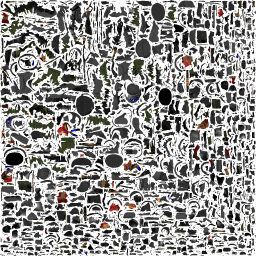
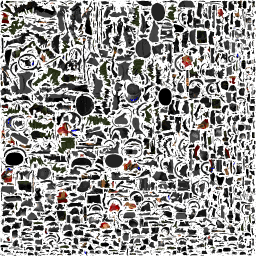
fix: SPOS back no longer shifts color through the walk cycle
Fronts of the A-G set are one consistent hint projection, but each
frame's back was its own raw TRELLIS bake, and bakes drift: the back's
screen luminance pulsed 31-57 across frames (C near-black beside D).
Raw bakes live on the other machine, so no re-projection here.

A full back repaint from frame A's rear shell (new
Tools/repaint_back_from_anchor.py: mesh-space KNN-median lookup with
per-frame auto-yaw - poses carry real torso turns, B walks at ~-42deg,
F is baked toward the target) won its 180-degree panel but FAILED the
in-game gate: angled views smeared half a back dark. The frontal panel
does not predict oblique game angles; the tool stays for its
frame_cloud rear-shell classifier (per-cell depth minimum, median
centering - a stride leg skews the bbox, absolute eps - the z-span
breathes with the pose).

Shipped fix is conservative: Tools/tone_match_back.py keeps every
frame's own back content (its bake is geometry-correct by construction)
and transfers only per-channel mean/std toward frame A, with statistics
measured in screen space over back renders (the barrel doctrine),
applied to non-front texels only, std gain capped at 1.6x, requantized
to the SPOSA1 palette. Backs now sit at 44-51 lum (walk cycle
48.6/48.8/46.6/48.5); content differences (B's scorch, C's darker
pants) remain and would need a re-roll on the bake machine.

Targeted suites: EditMode MonsterModelFrameTableTests 9/9, PlayMode
[…]

diff --git a/Tools/repaint_back_from_anchor.py b/Tools/repaint_back_from_anchor.py
@@ -1,0 +1,206 @@
+"""Repaint away-facing texels of monster frames from ONE anchor frame's back.
+
+project_hint_texture.py made the fronts of a stop-motion set consistent (one
+hint set), but --back-from-bake paints each frame's back from that frame's OWN
+raw TRELLIS bake — and bakes drift between generations, so the back pulses
+tone and content through the walk cycle (SPOS, reported 2026-08-30: grey vs
+rust vs near-black armor frame to frame). Statistics cannot fix that (the
+SPOS color saga verdict), so this applies the projection doctrine to the back:
+every away-facing texel of a target frame takes the color of the NEAREST
+away-facing surface point of the anchor mesh, matched in normalized mesh
+space (poses share the body core, so a thigh maps to the thigh, armor to
+armor). Screen-space row alignment was tried first and rejected: the anchor's
+own back render carries its hand/gun at torso rows, and row stretching smears
+them across every other pose. Raw bakes are not needed — meshes, UVs and the
+installed albedos carry everything, and colors come straight from the
+anchor's quantized albedo, so no re-quantization blur.
+
+Usage:
+  python Tools/repaint_back_from_anchor.py \
+      --dir Assets/Resources/ExperimentalMonsters/SPOS \
+      --anchor SPOSA1 --frames SPOSB1 SPOSC1 SPOSD1 SPOSE1 SPOSF1 SPOSG1 \
+      --palette-lump SPOSA1
+"""
+from __future__ import annotations
+
+import argparse
+import sys
+from pathlib import Path
+
+import numpy as np
+from PIL import Image
+from scipy.spatial import cKDTree
+
+sys.path.insert(0, str(Path(__file__).resolve().parent))
+import doomify3d  # noqa: E402
+from project_hint_texture import rasterize_positions  # noqa: E402
+from recolor_to_hint import strong_blue  # noqa: E402
+
+PROJ = 1024
+
+
+def frame_cloud(d: Path, lump: str, grid: int, eps: float):
+    """Rasterize a frame's atlas: per-1024-texel normalized position plus the
+    REAR-SHELL classification. The plain occluded-texel split from
+    project_hint_texture is wrong for this tool on both sides: the anchor's
+    occluded set carries FRONT surfaces (chest behind the gun, visor under
+    the brim) that poison the color cloud with black/blue at near-back
+    positions, and repainting a target's occluded-front texels would show
+    through from the front at parallax angles. The surface a viewer behind
+    the monster actually sees is the depth MINIMUM per (x, y) cell — front
+    is +Z (settled 2026-08-15) — so both the cloud and the repaint set are
+    texels within eps of their cell's minimum."""
+    verts, tris, cuv = doomify3d.load_obj(d / f"{lump}.obj")
+    v = verts.copy()
+    y_min, y_max = v[:, 1].min(), v[:, 1].max()
+    h = max(1e-9, y_max - y_min)
+    v /= h
+    v[:, 1] -= y_min / h
+    pos, _, filled = rasterize_positions(v, tris, cuv, PROJ)
+    pts = pos[filled]
+    # Center x/z on the surface MEDIAN, not the bbox: a stride leg or an
+    # outstretched gun inflates the bbox on one side (SPOSB1 z-span 0.94 vs
+    # the set's ~0.65) and shifts every body texel relative to the anchor's.
+    # The torso dominates the texel count, so the median pins body-to-body.
+    pts[:, 0] -= np.median(pts[:, 0])
+    pts[:, 2] -= np.median(pts[:, 2])
+
+    depth = pts[:, 2]
+    gx = ((pts[:, 0] - pts[:, 0].min()) /
+          max(1e-9, np.ptp(pts[:, 0])) * (grid - 1)).round().astype(np.int64)
+    gy = (pts[:, 1] * (grid - 1)).round().astype(np.int64)
+    _, inv = np.unique(gy * grid + gx, return_inverse=True)
+    cell_min = np.full(inv.max() + 1, np.inf)
+    np.minimum.at(cell_min, inv, depth)
+    cell_max = np.full(inv.max() + 1, -np.inf)
+    np.maximum.at(cell_max, inv, depth)
+    # eps is ABSOLUTE in height-normalized units: a span-relative threshold
+    # breathes with the pose (the stride frame's z-span is 1.5x the stand's).
+    # No front-half cap: a cell's depth minimum IS what a viewer behind sees,
+    # including the rear side of a forward leg or the gun's underside.
+    shell = (depth - cell_min[inv]) <= eps
+    # Everything at least eps behind the front surface is what the hint
+    # projection painted from the per-frame bake — the whole flicker source.
+    hidden = (cell_max[inv] - depth) > eps
+    return pts, filled, shell, hidden
+
+
+def yaw_rot(deg: float) -> np.ndarray:
+    r = np.radians(deg)
+    return np.array([[np.cos(r), 0, np.sin(r)], [0, 1, 0],
+                     [-np.sin(r), 0, np.cos(r)]])
+
+
+def rotate_centered(pts: np.ndarray, back: np.ndarray, deg: float):
+    """Rotate the FULL surface cloud and re-center by the FULL surface
+    median, then cut the back subset: centering by the back subset's own
+    median pushes the whole query forward (the subset lives at negative z)
+    and mismatches every frame, even a perfectly aligned one."""
+    r = pts @ yaw_rot(deg).T
+    r[:, 0] -= np.median(r[:, 0])
+    r[:, 2] -= np.median(r[:, 2])
+    return r[back]
+
+
+def align_yaw(pts: np.ndarray, back: np.ndarray, tree: cKDTree,
+              w: np.ndarray) -> float:
+    """Frames carry REAL yaw offsets against the anchor — the fire pose is
+    baked at -40 so the muzzle faces the target, and walk poses twist the
+    shoulders — so the color lookup must match bodies in the anchor's
+    orientation (the classification stays in display space, where front is
+    +Z for every mesh). Minimize mean NN distance over a coarse+fine sweep."""
+    def score(deg):
+        q = rotate_centered(pts, back, deg)[::7]
+        dd, _ = tree.query(q * w, workers=-1)
+        return float(dd.mean())
+
+    coarse = min(range(-60, 65, 5), key=score)
+    return min(range(coarse - 4, coarse + 5), key=score)
+
+
+def main():
+    p = argparse.ArgumentParser()
+    p.add_argument("--dir", required=True)
+    p.add_argument("--anchor", required=True)
+    p.add_argument("--frames", nargs="+", required=True)
+    p.add_argument("--palette-lump", required=True)
+    p.add_argument("--knn", type=int, default=32,
+                   help="median over this many anchor neighbors: a lone "
+                        "crevice/flap texel must not win a misaligned query "
+                        "(poses differ, mean NN miss ~0.06 body heights)")
+    p.add_argument("--texcap", type=int, default=256)
+    p.add_argument("--back-depth-eps", type=float, default=0.05,
+                   help="rear-shell thickness in height-normalized units")
+    p.add_argument("--back-grid", type=int, default=256)
+    # Poses differ mostly in depth (a swung leg travels along z), so distance
+    # weighs z under x/y: the lookup should stay on the same body part, not
+    # jump to whatever limb happens to pass nearby.
+    p.add_argument("--z-weight", type=float, default=0.5)
+    a = p.parse_args()
+
+    d = Path(a.dir)
+    pal = doomify3d.sprite_palette(a.palette_lump)
+    size = a.texcap
+    k = PROJ // size
+
+    apts, afilled, aback, _ = frame_cloud(d, a.anchor, a.back_grid,
+                                          a.back_depth_eps)
+    aidx = np.argwhere(afilled)[aback]
+    alb_a = np.asarray(Image.open(
+        d / f"{a.anchor}_albedo.png").convert("RGB"))
+    acols = alb_a[aidx[:, 0] // k, aidx[:, 1] // k]
+    cloud = apts[aback] * np.array([1.0, 1.0, a.z_weight])
+    tree = cKDTree(cloud)
+    print(f"{a.anchor}: anchor back cloud {len(cloud)} texels")
+
+    for lump in a.frames:
+        pts, filled, shell, hidden = frame_cloud(d, lump, a.back_grid,
+                                                 a.back_depth_eps)
+        # Repaint the rear shell AND every hidden texel: both were painted
+        # from the per-frame bake, so both carry the frame-to-frame drift.
+        # Only the front shell (the hint projection) stays untouched.
+        back = shell | hidden
+        w = np.array([1.0, 1.0, a.z_weight])
+        yaw = align_yaw(pts, back, tree, w)
+        q = rotate_centered(pts, back, yaw) * w
+        dist, nn = tree.query(q, k=a.knn, workers=-1)
+        med = np.median(acols[nn].astype(np.float64), axis=1)
+        newcols = doomify3d.quantize(
+            np.clip(med, 0, 255).astype(np.uint8)[None, ...], pal)[0]
+        idx_all = np.argwhere(filled)
+
+        # Decide per atlas texel of the shipped texcap resolution: replace a
+        # texel only when most of its 4x4 sub-texels are away-facing, and give
+        # it the MODE of their looked-up palette colors (palette colors do not
+        # average).
+        sub = np.zeros((PROJ, PROJ, 3), np.int32)
+        hit = np.zeros((PROJ, PROJ), bool)
+        bidx = idx_all[back]
+        sub[bidx[:, 0], bidx[:, 1]] = newcols
+        hit[bidx[:, 0], bidx[:, 1]] = True
+
+        hit4 = hit.reshape(size, k, size, k)
+        cov = hit4.mean((1, 3))
+        take = cov > 0.5
+        sub4 = sub.reshape(size, k, size, k, 3)
+
+        alb_path = d / f"{lump}_albedo.png"
+        alb = np.asarray(Image.open(alb_path).convert("RGBA")).copy()
+        ty, tx = np.where(take)
+        for yy, xx in zip(ty, tx):
+            block = sub4[yy, :, xx, :, :][hit4[yy, :, xx, :]]
+            packed = (block[:, 0].astype(np.int64) << 16) | \
+                (block[:, 1].astype(np.int64) << 8) | block[:, 2]
+            vals, counts = np.unique(packed, return_counts=True)
+            c = int(vals[np.argmax(counts)])
+            alb[yy, xx, :3] = (c >> 16, (c >> 8) & 255, c & 255)
+
+        blue = int((strong_blue(alb) & take).sum())
+        Image.fromarray(alb).save(alb_path)
+        print(f"{lump}: back {100 * back.mean():.0f}%, yaw {yaw:+d}, "
+              f"repainted {int(take.sum())}/{size * size} texels, mean NN "
+              f"dist {dist.mean():.4f}, blue on back {blue}")
+
+
+if __name__ == "__main__":
+    main()

diff --git a/Tools/tone_match_back.py b/Tools/tone_match_back.py
@@ -1,0 +1,98 @@
+"""Equalize the BACK tone of stop-motion frames to one anchor frame.
+
+The fronts of a monster's frame set are one consistent hint projection, but
+each back is that frame's own TRELLIS bake, and bakes drift: the SPOS walk
+cycle pulsed 33..48 mean luminance from behind (reported 2026-08-30). A full
+repaint of the backs from the anchor's rear shell (repaint_back_from_anchor)
+FAILED its in-game gate — mesh-space NN with per-frame yaw alignment smeared
+half a back dark on angled views — so this is the conservative fix: keep
+every frame's own back CONTENT (its bake is geometry-correct by
+construction) and transfer only per-channel tone toward the anchor.
+
+Method (the barrel doctrine — judge tone in SCREEN space): render anchor and
+frame from behind with their installed albedos, take per-channel mean/std
+over the opaque pixels, and apply the affine transfer to the frame's
+non-front atlas texels (rear shell + hidden; the front shell is the accepted
+hint projection and stays bit-identical). Std gain is capped and the result
+re-quantized to the sprite palette.
+
+Usage:
+  python Tools/tone_match_back.py \
+      --dir Assets/Resources/ExperimentalMonsters/SPOS \
+      --anchor SPOSA1 --frames SPOSB1 SPOSC1 SPOSD1 SPOSE1 SPOSF1 SPOSG1 \
+      --palette-lump SPOSA1
+"""
+from __future__ import annotations
+
+import argparse
+import sys
+from pathlib import Path
+
+import numpy as np
+from PIL import Image
+
+sys.path.insert(0, str(Path(__file__).resolve().parent))
+import doomify3d  # noqa: E402
+from repaint_back_from_anchor import frame_cloud, PROJ  # noqa: E402
+
+
+def back_stats(d: Path, lump: str):
+    verts, tris, cuv = doomify3d.load_obj(d / f"{lump}.obj")
+    tex = Image.open(d / f"{lump}_albedo.png").convert("RGB")
+    img = doomify3d.render(verts, tris, cuv, tex, 180.0, size=512)
+    arr = img.astype(np.float64)
+    rgb = arr[..., :3][arr[..., 3] > 0]
+    return rgb.mean(0), rgb.std(0)
+
+
+def main():
+    p = argparse.ArgumentParser()
+    p.add_argument("--dir", required=True)
+    p.add_argument("--anchor", required=True)
+    p.add_argument("--frames", nargs="+", required=True)
+    p.add_argument("--palette-lump", required=True)
+    p.add_argument("--texcap", type=int, default=256)
+    p.add_argument("--back-depth-eps", type=float, default=0.05)
+    p.add_argument("--back-grid", type=int, default=256)
+    p.add_argument("--std-cap", type=float, default=1.6,
+                   help="max std gain per channel (tone_match_redraw rule)")
+    a = p.parse_args()
+
+    d = Path(a.dir)
+    pal = doomify3d.sprite_palette(a.palette_lump)
+    size = a.texcap
+    k = PROJ // size
+
+    am, asd = back_stats(d, a.anchor)
+    print(f"{a.anchor}: back screen mean {np.round(am, 1)} std "
+          f"{np.round(asd, 1)}")
+
+    for lump in a.frames:
+        fm, fsd = back_stats(d, lump)
+        gain = np.clip(asd / np.maximum(fsd, 1e-6), 1.0 / a.std_cap,
+                       a.std_cap)
+
+        pts, filled, shell, hidden = frame_cloud(d, lump, a.back_grid,
+                                                 a.back_depth_eps)
+        idx_all = np.argwhere(filled)
+        hit = np.zeros((PROJ, PROJ), bool)
+        b = idx_all[shell | hidden]
+        hit[b[:, 0], b[:, 1]] = True
+        take = hit.reshape(size, k, size, k).mean((1, 3)) > 0.5
+
+        alb_path = d / f"{lump}_albedo.png"
+        alb = np.asarray(Image.open(alb_path).convert("RGBA")).copy()
+        px = alb[take, :3].astype(np.float64)
+        px = (px - fm) * gain + am
+        shifted = np.clip(px, 0, 255).astype(np.uint8)
+        alb[take, :3] = doomify3d.quantize(shifted[None, ...], pal)[0]
+        Image.fromarray(alb).save(alb_path)
+
+        nm, _ = back_stats(d, lump)
+        print(f"{lump}: mean {np.round(fm, 1)} -> {np.round(nm, 1)} "
+              f"(anchor {np.round(am, 1)}), gain {np.round(gain, 2)}, "
+              f"texels {int(take.sum())}")
+
+
+if __name__ == "__main__":
+    main()

diff --git a/CLAUDE.md b/CLAUDE.md
@@ -92,6 +92,8 @@ Stages 0–8 are done (6a–6f including music; 7a–7e including E1 standalone;
 
 **Волна трупов 512 ✅ закрыта 2026-08-30 («проверил в игре, выглядит хорошо»)** (branch `main`; повод — скриншот пользователя «трупы солдат размазаны»). Причина мыла — бочковый смаз в новом обличии: альбедо останков были 256×256 на 40k tris, а труп лежит под ногами игрока (самая близкая дистанция осмотра); сырой атлас TRELLIS и хинты всегда были 1024. **Все 10 лежачих останков переведены на 512×512 заменой ТОЛЬКО PNG** (меши/UV/маски эмиссии не тронуты; трупы-декорации 10/12/15/18/19/20/21 подхватили автоматически; кадры падения намеренно оставлены на 256 — мелькают полсекунды): POSSL0/SPOSL0, лужи POSSU0/SPOSU0/TROOU0, PLAYW0, TROOM0, PLAYN0, SARGN0, BOSSO0. **Метод волны — детерминизм-проверка пита**: каждый рецепт восстановлен прогоном на 256 и диффом с установленным альбедо (POSSL0/PLAYW0 100% — чистый doomify-бейк; SPOSL0 99.9% — + проекция `--lower-skin-fix`; SARGN0/BOSSO0 99.9% — + проекция с питчем +30°/+15° и `--back-from-bake`; TROOM0/PLAYN0 94.7%/91.5% — + `--tone-image` и экранная калибровка; тон луж U0 точно не воспроизвёлся — региональные правки ре-ролла — взят лучший стандартный рецепт с подгонкой экранного тона скалярным гейном к установленному рендеру, все отклонения ≤1.6 lum). **Главная находка: на 512 nearest-сэмплинг попадает в незакрашенный паддинг между UV-островами** — чёрные крапины по границам треугольников (на 256 их разбавлял BOX-даунсэмпл; хуже всех SARGN0/BOSSO0); лечение — дилатация цветов островов в паддинг (аналог `AlphaBleedGuard`), причём СТРОГО только в непокрытые тексели: первая версия с порогом lum≥30 зацепила покрытые тёмные и высветлила тёмные кадры на +6…10 lum (откачена). Вторая находка (POSSL0): BOX-даунсэмпл 1024→512 смешивает через UV-шов кровь/чёрное/кожу и квант отщёлкивает крупу мусорных цветов — для таких кадров 512 берётся nearest-ом из КВАНТОВАННОГО 1024; у SPOSL0 наоборот nearest вытаскивал микротрещины бейка — выбор даунсэмпла пер-кадр по крупному кропу. Тон судился в экранном пространстве по бочковому правилу (рендер установленного меша с обеими текстурами). Suites: EditMode **705/705** + PlayMode **195/195** без флейков; Windows build Success **~555 MB** (+5 MB). Гейт: панели + игра.
 
+**Тон спин SPOS ✅ закрыт 2026-08-30 («хорошо, там оставим»)** (branch `main`; повод — скриншот пользователя «у сержанта во время движения меняется цвет спины»). Причина: фронты кадров A–G — одна согласованная хинт-проекция, а спина каждого кадра красилась из его СОБСТВЕННОГО сырого TRELLIS-бейка (`--back-from-bake`), и бейки дрейфуют — экранная яркость спин гуляла 31–57 lum по кадрам (в цикле ходьбы C почти чёрный 33 рядом с D 48), у B рыжие подпалины. Сырых бейков SPOS на этой машине нет (монстро-волна делалась на другой), честная ре-проекция недоступна. **Полная перекраска спин от опорного кадра ОТВЕРГНУТА игровым гейтом** («стало хуже», полспины красилось тёмным): `Tools/repaint_back_from_anchor.py` (mesh-space KNN-медиана к задней оболочке кадра A с авто-выравниванием yaw — у кадров реальные довороты корпуса: B походный разворот ~−42°, F запечён под прицел) на панели 180° выглядел лучшим из четырёх итераций, но **фронтальная панель НЕ предсказывает косые игровые ракурсы** — инструмент оставлен ради `frame_cloud` (классификация задней оболочки: минимум глубины на ячейку сетки, центровка по МЕДИАНЕ поверхности — bbox плывёт от шагающей ноги, порог АБСОЛЮТНЫЙ — span дышит с позой). **Принято консервативное: `Tools/tone_match_back.py`** — структура спин остаётся своей (бейк геометрически верен по построению, артефакты перекраски исключены), выравнивается только тон: поканальный mean/std-перенос к кадру A со статистикой в ЭКРАННОМ пространстве по рендерам спин (бочковое правило), применён к незафронтальным текселям (задняя оболочка + скрытые; принятый фронт бит-в-бит), std-кап ×1.6, реквантование в палитру SPOSA1. Спины 44–51 lum (ходьба A–D: 48.6/48.8/46.6/48.5). Остаточные различия СОДЕРЖИМОГО (подпалина B, тёмные штаны C против ярких D) приняты — лечатся только ре-роллом на машине с сырыми бейками. Заменены 6 PNG (SPOSB1–G1_albedo). Целевые сьюты EditMode 9/9 + PlayMode 14/14, Windows build Success ~555 MB.
+
 **Монстро-долги трека ✅ ВСЕ закрыты 2026-08-27** (branch `main`, пять коммитов, каждый с пройденным интерактивным гейтом; упоминания этих долгов как открытых в записях волн ниже — историческая археология). `e76ff13` SARG F ре-ролл (укус снова трёхфазный); `eca623e` SPOS — ре-ролл F на чистом хинте (старый нёс запечённую вспышку, реконструировалась чёрным комом), репроекция всего живого сета A–G с `--back-from-bake` (зеркальные визоры на спинах ушли, маски эмиссии перегенерированы), и шейдерная вспышка выстрела: `Tools/make_muzzle_flash.py` печёт рваный пиксель-арт-бёрст строго из нативных текселей SPOSF1 через PLAYPAL (фотореал и гладкий диск отвергнуты гейтом), квад едет на инстансе кадра огня — vanilla fullbright-каденция бесплатно, путь табличный; `e62e516` POSS подключён к той же вспышке; `96ba653` BOSS N0 ре-ролл (курган → широкая россыпь); `1c887d9` плиты POSSU0/SPOSU0 → рваные россыпи (в коммите «the last monster debt»; рулетка ориентации TRELLIS: POSSU0 пришёл длиной по X но хинтом назад — yaw 180, SPOSU0 длиной по Z — yaw 90). Остаток всего трека редравов после этого: только дальний резерв (водопады, SKY1).
 
 **Enhanced 3D техно-колонна ELEC ✅ закрыта 2026-08-29 («проверил в игре, выглядит хорошо»)** (branch `main`; промпт `Textures/Trellis2/prompt-elec.txt`). Повод — скриншот пользователя («компьютер с потолка»): опознана вещь **48 `ELECA0`** (26×128, один статичный кадр без ротаций; напольная, просто 128 юнитов упираются в потолок), 25 штук на E1 (E1M1 ×4, E1M2 ×2, E1M3 ×5, E1M7 ×4, E1M9 ×10). Пит колонн целиком: эскиз v2 с процентными пинами секций, замеренными по спрайту (колпак 0–6%, радиаторные рёбра 6–41%, цилиндр с портами 42–62%, экран 67–74%, постамент 84–100%) и главным наказом «рёбра — венцы вокруг всей окружности, не две плоские гребёнки» — реконструкция удалась с первого прогона; doomify preset A (98 762 → 40k tris, 256 px, 61 цвет нативной палитры) + `--tone-image` по кропу + экранная калибровка (73.2 → 60.0 при цели 60.3). **Эмиссия: синие экраны-CRT светятся ровно** по steady-пути лампы (`Tools/make_elec_emission.py` — зона по высоте меша 18–42% + синий цветовой тест, маджента-проба); TRELLIS поставил экраны на несколько граней — принято (колонну обходят кругом); родной динамический tech-свет вещи 48 не менялся. Рантайм — кейс 48 в `ExperimentalPickupModel`; высота без оверрайда (патч = коллизия 128, равенство пинит тест). Тесты: EditMode `ElecAssetTests` ×3 (цепочка+маска, Resources, высота против WAD + сторож «у 48 не появится DecorationAnimation — иначе ровное свечение замигает»), PlayMode `PickupPlayTests` 7/7 (колонна в табличном тесте мешей); Windows build OK **540 MB**. Машинное: 3D-пит впервые на этой машине — установлены `trimesh`/`pymeshlab`; Unity-батч перезаписывает четыре settings-файла одними переводами строк (LF) — откатывать перед коммитом.
